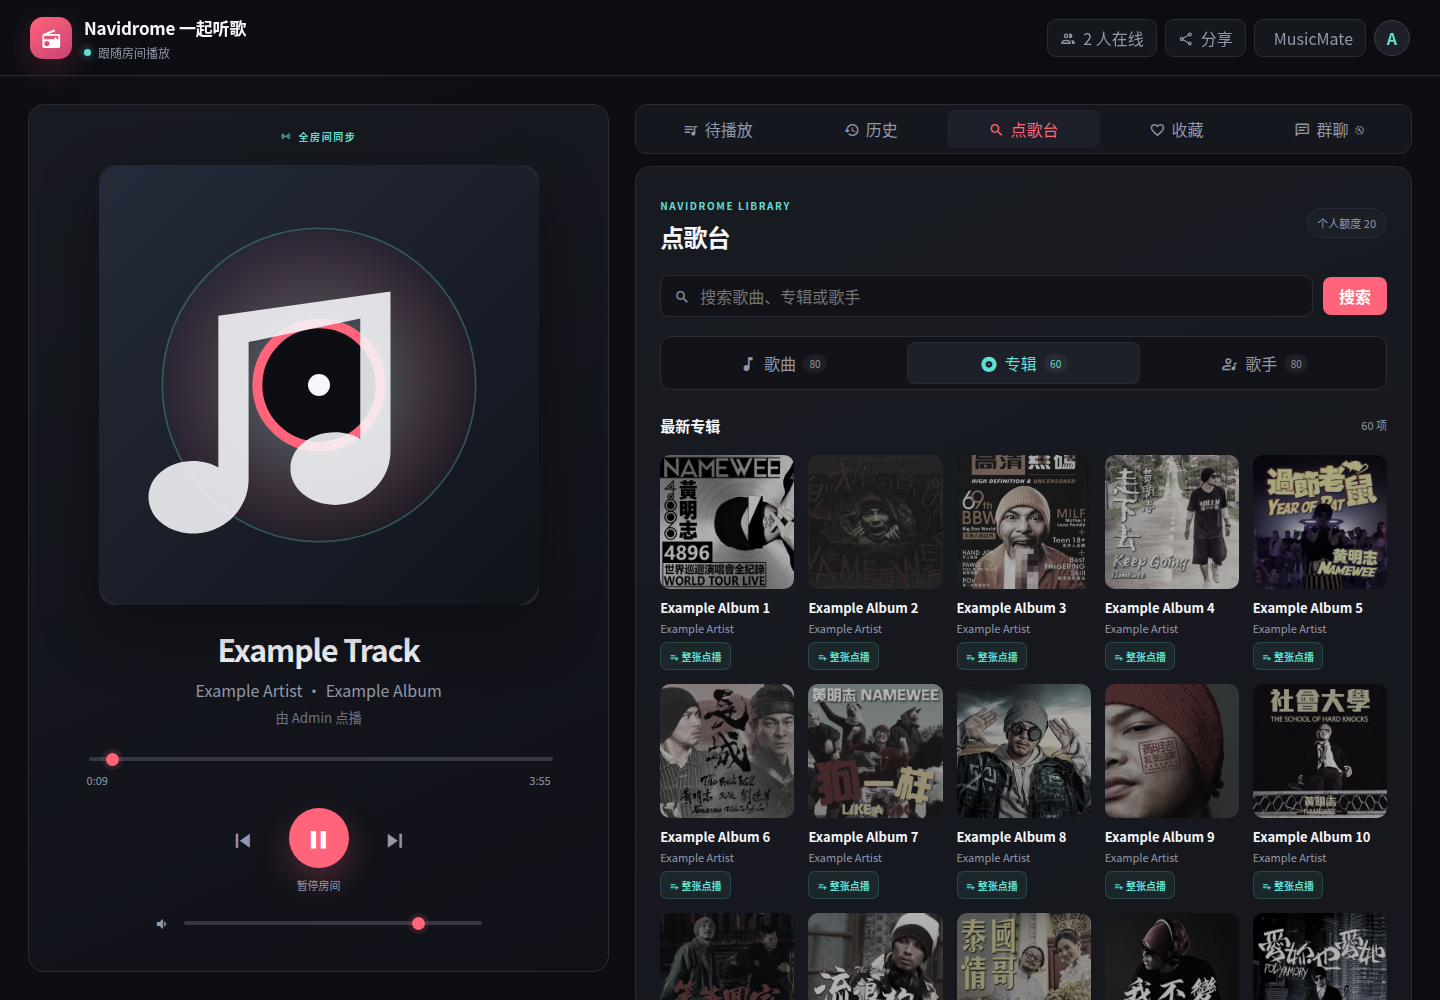
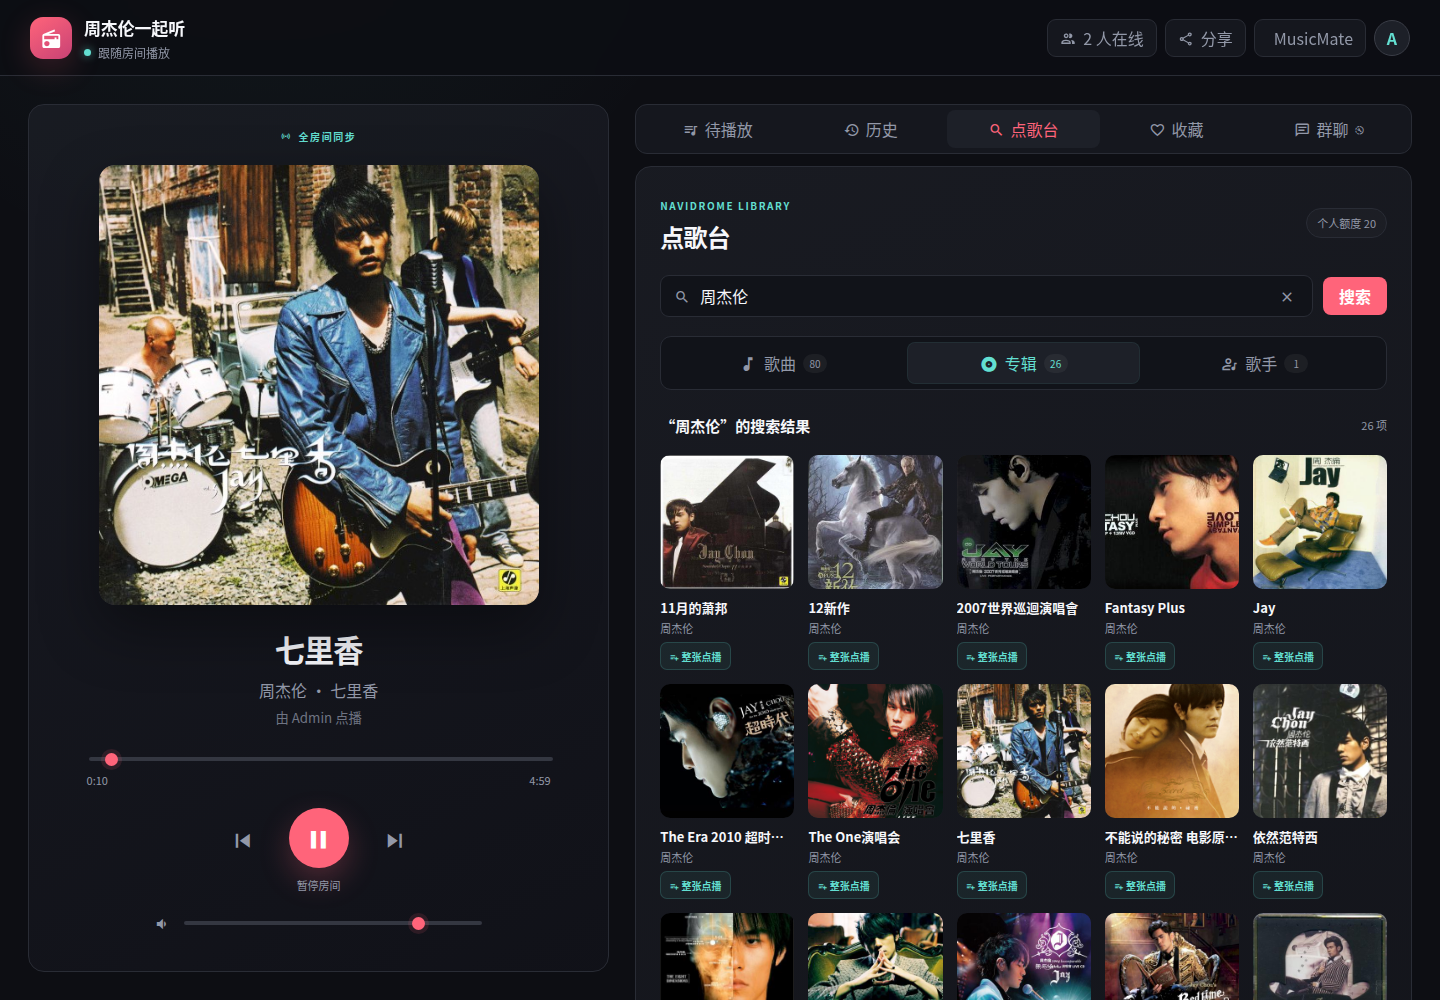
Refresh README with real music room captures

diff --git a/README.md b/README.md
@@ -1,10 +1,11 @@
 <p align="center">
-  <img src="docs/assets/logo.png" width="148" alt="Navidrome Music Room logo" />
+  <img src="docs/assets/musicmate-app-icon-source.png" width="148" alt="Navidrome Music Room logo" />
 </p>
 
 <h1 align="center">Navidrome Music Room</h1>
 
-<p align="center"><strong>Turn your Navidrome library into a private, synchronized listening room.</strong></p>
+<p align="center"><strong>Turn your Navidrome library into a private, synchronized listening room.</strong><br />
+<sub>Create in Navidrome · share one link or QR code · listen together on desktop and mobile</sub></p>
 
 <p align="center">
   <a href="https://github.com/mythezone/navidrome-music-room/releases/tag/v1.1.0-dev"><img alt="Version" src="https://img.shields.io/badge/version-v1.1.0--dev-ff6b57"></a>
@@ -19,20 +20,30 @@
   <a href="CONTRIBUTING.md"><img alt="PRs welcome" src="https://img.shields.io/badge/PRs-welcome-brightgreen"></a>
 </p>
 
-<p align="center"><a href="README.zh-CN.md">简体中文</a> · <a href="https://github.com/mythezone/navidrome-music-room/releases">Download</a> · <a href="#quick-install">Install</a> · <a href="#use-the-room">Use</a></p>
+<p align="center"><strong><a href="README.zh-CN.md">简体中文</a> · <a href="https://github.com/mythezone/navidrome-music-room/releases">Download v1.1.0-dev</a> · <a href="#quick-install">Quick install</a> · <a href="#use-the-room">User guide</a></strong></p>
 
-![Navidrome Music Room across desktop and mobile](docs/assets/hero.png)
+<p align="center"><img src="docs/assets/hero.png" width="100%" alt="Navidrome Music Room across a self-hosted server, desktop and mobile" /></p>
 
-An administrator creates a room from Navidrome's plugin page, shares a link or QR code, and invited Navidrome users listen together in a desktop or mobile browser. Everyone uses their own Navidrome account and library permissions. Music is streamed directly from Navidrome while the room keeps play, pause, seek, next track, queue and reconnect state synchronized.
+<table>
+  <tr>
+    <td width="33%" align="center"><strong>① Create</strong><br /><sub>An administrator opens the plugin Website and creates a room.</sub></td>
+    <td width="33%" align="center"><strong>② Share</strong><br /><sub>Copy the private invitation or let friends scan its local QR code.</sub></td>
+    <td width="33%" align="center"><strong>③ Listen</strong><br /><sub>Every invited Navidrome user joins the same synchronized queue.</sub></td>
+  </tr>
+</table>
 
-Current prerelease: **v1.1.0-dev**. It adds first-class **Songs / Albums / Artists** browsing and whole-album requests to the Web room.
+Everyone signs in with their own Navidrome account and keeps their own library permissions. Music streams directly from Navidrome; the room synchronizes play, pause, seek, next track, requests and reconnect state. Current prerelease **v1.1.0-dev** adds complete **Songs / Albums / Artists** browsing and whole-album requests in the Web room.
 
 ## Where it is useful
 
-- Listen to an album with friends in different places while everyone stays on the same second.
-- Let family members use one self-hosted library without sharing an administrator password.
-- Run a private party or team room where members can request tracks and the owner controls playback.
-- Share a room from Navidrome now, then open the same invitation in the upcoming MusicMate app.
+<table>
+  <tr>
+    <td width="25%"><strong>🌍 Friends apart</strong><br /><sub>Share an album while everyone stays on the same second.</sub></td>
+    <td width="25%"><strong>🏠 Family library</strong><br /><sub>Keep separate accounts and permissions without sharing an admin password.</sub></td>
+    <td width="25%"><strong>🎉 Private events</strong><br /><sub>Let members request tracks while the room owner controls playback.</sub></td>
+    <td width="25%"><strong>📱 Web + App</strong><br /><sub>Open in any browser today and in the upcoming MusicMate app.</sub></td>
+  </tr>
+</table>
 
 ## What works
 
@@ -49,23 +60,36 @@ Current prerelease: **v1.1.0-dev**. It adds first-class **Songs / Albums / Artis
 | Direct Navidrome streaming with each user's own access | ✅ |
 | Chat, richer room activity and community statistics | Open-source roadmap |
 
-The management console is opened from the stock Navidrome plugin **Website** link:
+## Real product tour
 
-![Room management opened from Navidrome](docs/assets/admin-ui-live.png)
+These captures come from the running v1.1.0-dev build and a real Navidrome library. The catalog shown here is filtered to Jay Chou; no mock albums or substituted cover art are used.
 
-It creates invitation links and QR codes locally in the browser:
+<p align="center">
+  <img src="docs/assets/web-room-catalog-live.png" width="100%" alt="Real Jay Chou album results in the Navidrome Music Room request desk" /><br />
+  <sub>Search Navidrome by song, album or artist, then request one track or the whole album.</sub>
+</p>
 
-![Share link and QR dialog](docs/assets/share-dialog-live.png)
+<table>
+  <tr>
+    <td width="70%"><img src="docs/assets/web-room-live.png" alt="Real desktop Web listening room with a synchronized Jay Chou queue" /></td>
+    <td width="30%"><img src="docs/assets/web-room-mobile.png" alt="Real mobile Web listening room showing Jay Chou albums" /></td>
+  </tr>
+  <tr>
+    <td align="center"><sub>Desktop: shared playback, queue, progress and room presence</sub></td>
+    <td align="center"><sub>Mobile: the same room and catalog at 390 px</sub></td>
+  </tr>
+</table>
 
-The same invitation opens the full Web room:
-
-![Desktop Web listening room](docs/assets/web-room-live.png)
-
-Songs, albums and artists now use Navidrome's own OpenSubsonic library APIs:
-
-![Songs, albums and artists in the request desk](docs/assets/web-room-catalog-live.png)
-
-<img src="docs/assets/web-room-mobile.png" width="390" alt="Mobile Web listening room" />
+<table>
+  <tr>
+    <td width="68%"><img src="docs/assets/admin-ui-live.png" alt="Room management opened from Navidrome" /></td>
+    <td width="32%"><img src="docs/assets/share-dialog-live.png" alt="Share link and QR dialog" /></td>
+  </tr>
+  <tr>
+    <td align="center"><sub>Open the management console from the stock plugin Website link.</sub></td>
+    <td align="center"><sub>Create private links and QR codes locally in the browser.</sub></td>
+  </tr>
+</table>
 
 ## Downloads
 
@@ -232,9 +256,14 @@ More details: [compatibility](docs/COMPATIBILITY.md), [updates](docs/UPDATES.md)
 
 ## MusicMate app preview
 
-MusicMate is the upcoming native companion for iOS and Android. It will scan the same room QR code, keep Navidrome credentials in the system credential store, use Navidrome as its music source and join the exact same synchronized queue as Web listeners. The Web room remains fully usable without the app.
+MusicMate is the upcoming native companion for iOS and Android. It will scan the same room QR code, keep Navidrome credentials in the system credential store, use Navidrome as its music source and join the exact same synchronized queue as Web listeners. The accepted artwork below is now the canonical source for the next app icon. The Web room remains fully usable without the app.
 
-![MusicMate app preview](docs/assets/musicmate-demo.gif)
+<table>
+  <tr>
+    <td width="24%" align="center"><img src="docs/assets/musicmate-app-icon-source.png" width="150" alt="Accepted MusicMate app icon for the next release" /><br /><sub>Next app icon</sub></td>
+    <td width="76%"><strong>Coming next: the native MusicMate companion</strong><br /><br />Scan a room QR code, connect Navidrome as the music source, keep credentials in the system keychain and join the same Web queue from iOS or Android.<br /><br /><sub>The app screen will be added here after the next real device build is ready.</sub></td>
+  </tr>
+</table>
 
 ## Work with us
 

diff --git a/README.zh-CN.md b/README.zh-CN.md
@@ -1,10 +1,11 @@
 <p align="center">
-  <img src="docs/assets/logo.png" width="148" alt="Navidrome Music Room 标志" />
+  <img src="docs/assets/musicmate-app-icon-source.png" width="148" alt="Navidrome Music Room 标志" />
 </p>
 
 <h1 align="center">Navidrome Music Room</h1>
 
-<p align="center"><strong>把自己的 Navidrome 曲库变成私密、同步的一起听歌房。</strong></p>
+<p align="center"><strong>把自己的 Navidrome 曲库变成私密、同步的一起听歌房。</strong><br />
+<sub>在 Navidrome 中创建 · 分享一个链接或二维码 · 电脑和手机一起听</sub></p>
 
 <p align="center">
   <a href="https://github.com/mythezone/navidrome-music-room/releases/tag/v1.1.0-dev"><img alt="版本" src="https://img.shields.io/badge/version-v1.1.0--dev-ff6b57"></a>
@@ -19,20 +20,30 @@
   <a href="CONTRIBUTING.md"><img alt="欢迎 PR" src="https://img.shields.io/badge/PRs-welcome-brightgreen"></a>
 </p>
 
-<p align="center"><a href="README.md">English</a> · <a href="https://github.com/mythezone/navidrome-music-room/releases">下载</a> · <a href="#快速安装">安装</a> · <a href="#使用听歌房">使用</a></p>
+<p align="center"><strong><a href="README.md">English</a> · <a href="https://github.com/mythezone/navidrome-music-room/releases">下载 v1.1.0-dev</a> · <a href="#快速安装">快速安装</a> · <a href="#使用听歌房">使用教程</a></strong></p>
 
-![桌面与手机上的 Navidrome Music Room](docs/assets/hero.png)
+<p align="center"><img src="docs/assets/hero.png" width="100%" alt="自托管服务器、桌面与手机上的 Navidrome Music Room" /></p>
 
-管理员从 Navidrome 插件页面创建房间并分享链接或二维码，受邀用户使用自己的 Navidrome 账号，直接在桌面或手机浏览器里一起听歌。音频由 Navidrome 直接提供，房间服务负责同步播放、暂停、进度、切歌、待播列表与断线重连。
+<table>
+  <tr>
+    <td width="33%" align="center"><strong>① 创建房间</strong><br /><sub>管理员从插件 Website 打开管理页并创建房间。</sub></td>
+    <td width="33%" align="center"><strong>② 分享邀请</strong><br /><sub>复制私密链接，或让朋友扫描本地生成的二维码。</sub></td>
+    <td width="33%" align="center"><strong>③ 一起听歌</strong><br /><sub>受邀 Navidrome 用户进入同一个同步播放队列。</sub></td>
+  </tr>
+</table>
 
-当前预览版本：**v1.1.0-dev**。这一版补齐了点歌台的 **歌曲 / 专辑 / 歌手** 三种浏览方式，以及整张专辑点播。
+每个人都使用自己的 Navidrome 账号，并保持自己的曲库权限。音频直接从 Navidrome 播放，听歌房同步播放、暂停、进度、切歌、点播与断线重连。当前预览版 **v1.1.0-dev** 已补齐 **歌曲 / 专辑 / 歌手** 三种选歌方式与整张专辑点播。
 
 ## 适合这些场景
 
-- 异地朋友一起听同一张专辑，所有人的播放位置保持一致。
-- 家庭成员共用自建曲库，但每个人仍使用自己的账号和曲库权限。
-- 聚会、工作室或小团队建立私密房间，成员点歌，房主统一控制播放。
-- 先从 Navidrome 分享听歌房，未来也可使用 MusicMate App 扫描同一个二维码加入。
+<table>
+  <tr>
+    <td width="25%"><strong>🌍 异地朋友</strong><br /><sub>一起听同一张专辑，所有人保持在同一秒。</sub></td>
+    <td width="25%"><strong>🏠 家庭曲库</strong><br /><sub>保留各自账号与权限，不用分享管理员密码。</sub></td>
+    <td width="25%"><strong>🎉 私密聚会</strong><br /><sub>成员自由点歌，房主负责全局播放控制。</sub></td>
+    <td width="25%"><strong>📱 Web + App</strong><br /><sub>现在浏览器直接使用，未来可用 MusicMate 加入。</sub></td>
+  </tr>
+</table>
 
 ## 已实现功能
 
@@ -49,23 +60,36 @@
 | 每个用户按自己的权限直连 Navidrome 音频 | ✅ |
 | 群聊、更丰富的房间动态和社区统计 | 开源路线图 |
 
-通过 Navidrome 插件详情中的 **Website** 打开管理页：
+## 真实界面
 
-![从 Navidrome 打开的听歌房管理页](docs/assets/admin-ui-live.png)
+下面的图片由正在运行的 v1.1.0-dev 和真实 Navidrome 曲库直接生成。点歌台筛选为周杰伦，未使用虚构专辑、替换文字或模拟封面。
 
-管理页可在浏览器本地生成邀请链接和二维码：
+<p align="center">
+  <img src="docs/assets/web-room-catalog-live.png" width="100%" alt="Navidrome Music Room 点歌台中的真实周杰伦专辑结果" /><br />
+  <sub>按歌曲、专辑或歌手搜索 Navidrome，然后点播单曲或整张专辑。</sub>
+</p>
 
-![分享链接与二维码](docs/assets/share-dialog-live.png)
+<table>
+  <tr>
+    <td width="70%"><img src="docs/assets/web-room-live.png" alt="带有周杰伦同步待播队列的真实桌面 Web 听歌房" /></td>
+    <td width="30%"><img src="docs/assets/web-room-mobile.png" alt="显示周杰伦专辑的真实手机 Web 听歌房" /></td>
+  </tr>
+  <tr>
+    <td align="center"><sub>桌面：共同播放、待播、进度与房间在线状态</sub></td>
+    <td align="center"><sub>手机：390 px 下的同一房间与曲库</sub></td>
+  </tr>
+</table>
 
-同一个邀请可以直接打开完整 Web 听歌房：
-
-![桌面 Web 听歌房](docs/assets/web-room-live.png)
-
-歌曲、专辑和歌手页面现在直接复用 Navidrome 的 OpenSubsonic 曲库接口：
-
-![点歌台中的歌曲、专辑与歌手](docs/assets/web-room-catalog-live.png)
-
-<img src="docs/assets/web-room-mobile.png" width="390" alt="手机 Web 听歌房" />
+<table>
+  <tr>
+    <td width="68%"><img src="docs/assets/admin-ui-live.png" alt="从 Navidrome 打开的听歌房管理页" /></td>
+    <td width="32%"><img src="docs/assets/share-dialog-live.png" alt="分享链接与二维码对话框" /></td>
+  </tr>
+  <tr>
+    <td align="center"><sub>通过原生插件详情中的 Website 打开房间管理页。</sub></td>
+    <td align="center"><sub>在浏览器本地生成私密链接和二维码。</sub></td>
+  </tr>
+</table>
 
 ## 下载
 
@@ -232,9 +256,14 @@ ${Plugins.Folder}/navidrome-music-room/room-data/
 
 ## MusicMate App 预告
 
-MusicMate 是接下来发布的 iOS / Android 原生客户端。它会扫描同一个房间二维码，把 Navidrome 凭据保存在系统凭据存储中，以 Navidrome 作为音源，并与 Web 用户加入同一个同步待播队列。没有 App 时，Web 听歌房仍然可以完整使用。
+MusicMate 是接下来发布的 iOS / Android 原生客户端。它会扫描同一个房间二维码，把 Navidrome 凭据保存在系统凭据存储中，以 Navidrome 作为音源，并与 Web 用户加入同一个同步待播队列。下面已经确认的图稿会作为下一版 App 图标的标准源文件。没有 App 时，Web 听歌房仍然可以完整使用。
 
-![MusicMate App 预览](docs/assets/musicmate-demo.gif)
+<table>
+  <tr>
+    <td width="24%" align="center"><img src="docs/assets/musicmate-app-icon-source.png" width="150" alt="下一版采用的 MusicMate App 图标" /><br /><sub>下一版 App 图标</sub></td>
+    <td width="76%"><strong>接下来：MusicMate 原生客户端</strong><br /><br />扫描房间二维码，以 Navidrome 作为音源，把凭据保存在系统钥匙串中，并从 iOS 或 Android 加入与 Web 相同的待播队列。<br /><br /><sub>下一版真实设备构建完成后，再在这里加入 App 实机截图。</sub></td>
+  </tr>
+</table>
 
 ## 合作方式
 

diff --git a/docs/MUSICMATE_INTEGRATION.md b/docs/MUSICMATE_INTEGRATION.md
@@ -4,6 +4,19 @@ The HTTPS invitation is also the browser client URL in v1.0. MusicMate should
 continue claiming the `musicmate://` deep link, while normal HTTPS navigation
 must remain available as a complete fallback rather than forcing an app install.
 
+## App icon for the next release
+
+Use [`musicmate-app-icon-source.png`](assets/musicmate-app-icon-source.png)
+as the canonical artwork for the next MusicMate app release. Keep the coral
+rounded frame and waveform, plus the two cyan endpoints, unchanged. Platform
+packaging should derive its assets from this original 1254 × 1254 RGBA file:
+
+- export an opaque 1024 × 1024 App Store icon for iOS without applying a second
+  rounded-corner mask inside the artwork;
+- export Android adaptive foreground/background layers while preserving the
+  current safe area;
+- compare generated icons against the source before publishing the app update.
+
 ## Provider boundary
 
 Existing FAIO rooms remain unchanged. Add a provider discriminator and preserve old Codable defaults:

diff --git a/room-ui/DESIGN.md b/room-ui/DESIGN.md
@@ -61,3 +61,7 @@ Compared after the live browser run against both reference images:
 
 The compared production captures are `docs/assets/web-room-live.png`,
 `docs/assets/web-room-catalog-live.png`, and `docs/assets/web-room-mobile.png`.
+They are generated by `e2e/live.mjs` from the running product, not assembled or
+rewritten after capture. Set `NMR_SCREENSHOT_QUERY`, `NMR_SCREENSHOT_TRACK`, and
+`NMR_SCREENSHOT_ROOM_NAME` to choose documentation data. The capture waits for
+all cover images and rejects excluded artist text before writing each PNG.

diff --git a/ROADMAP.md b/ROADMAP.md
@@ -32,6 +32,8 @@
 - Songs, Albums, and Artists browsing in the Web request desk.
 - Whole-album requests using the listener's own music-folder permissions.
 - Usage-first release documentation, branding, and ready-to-run Compose bundle.
+- Adopt `docs/assets/musicmate-app-icon-source.png` as the canonical icon source
+  for the next MusicMate iOS and Android release.
 - Continue testing against stock Navidrome without a maintained fork.
 
 ## Later
